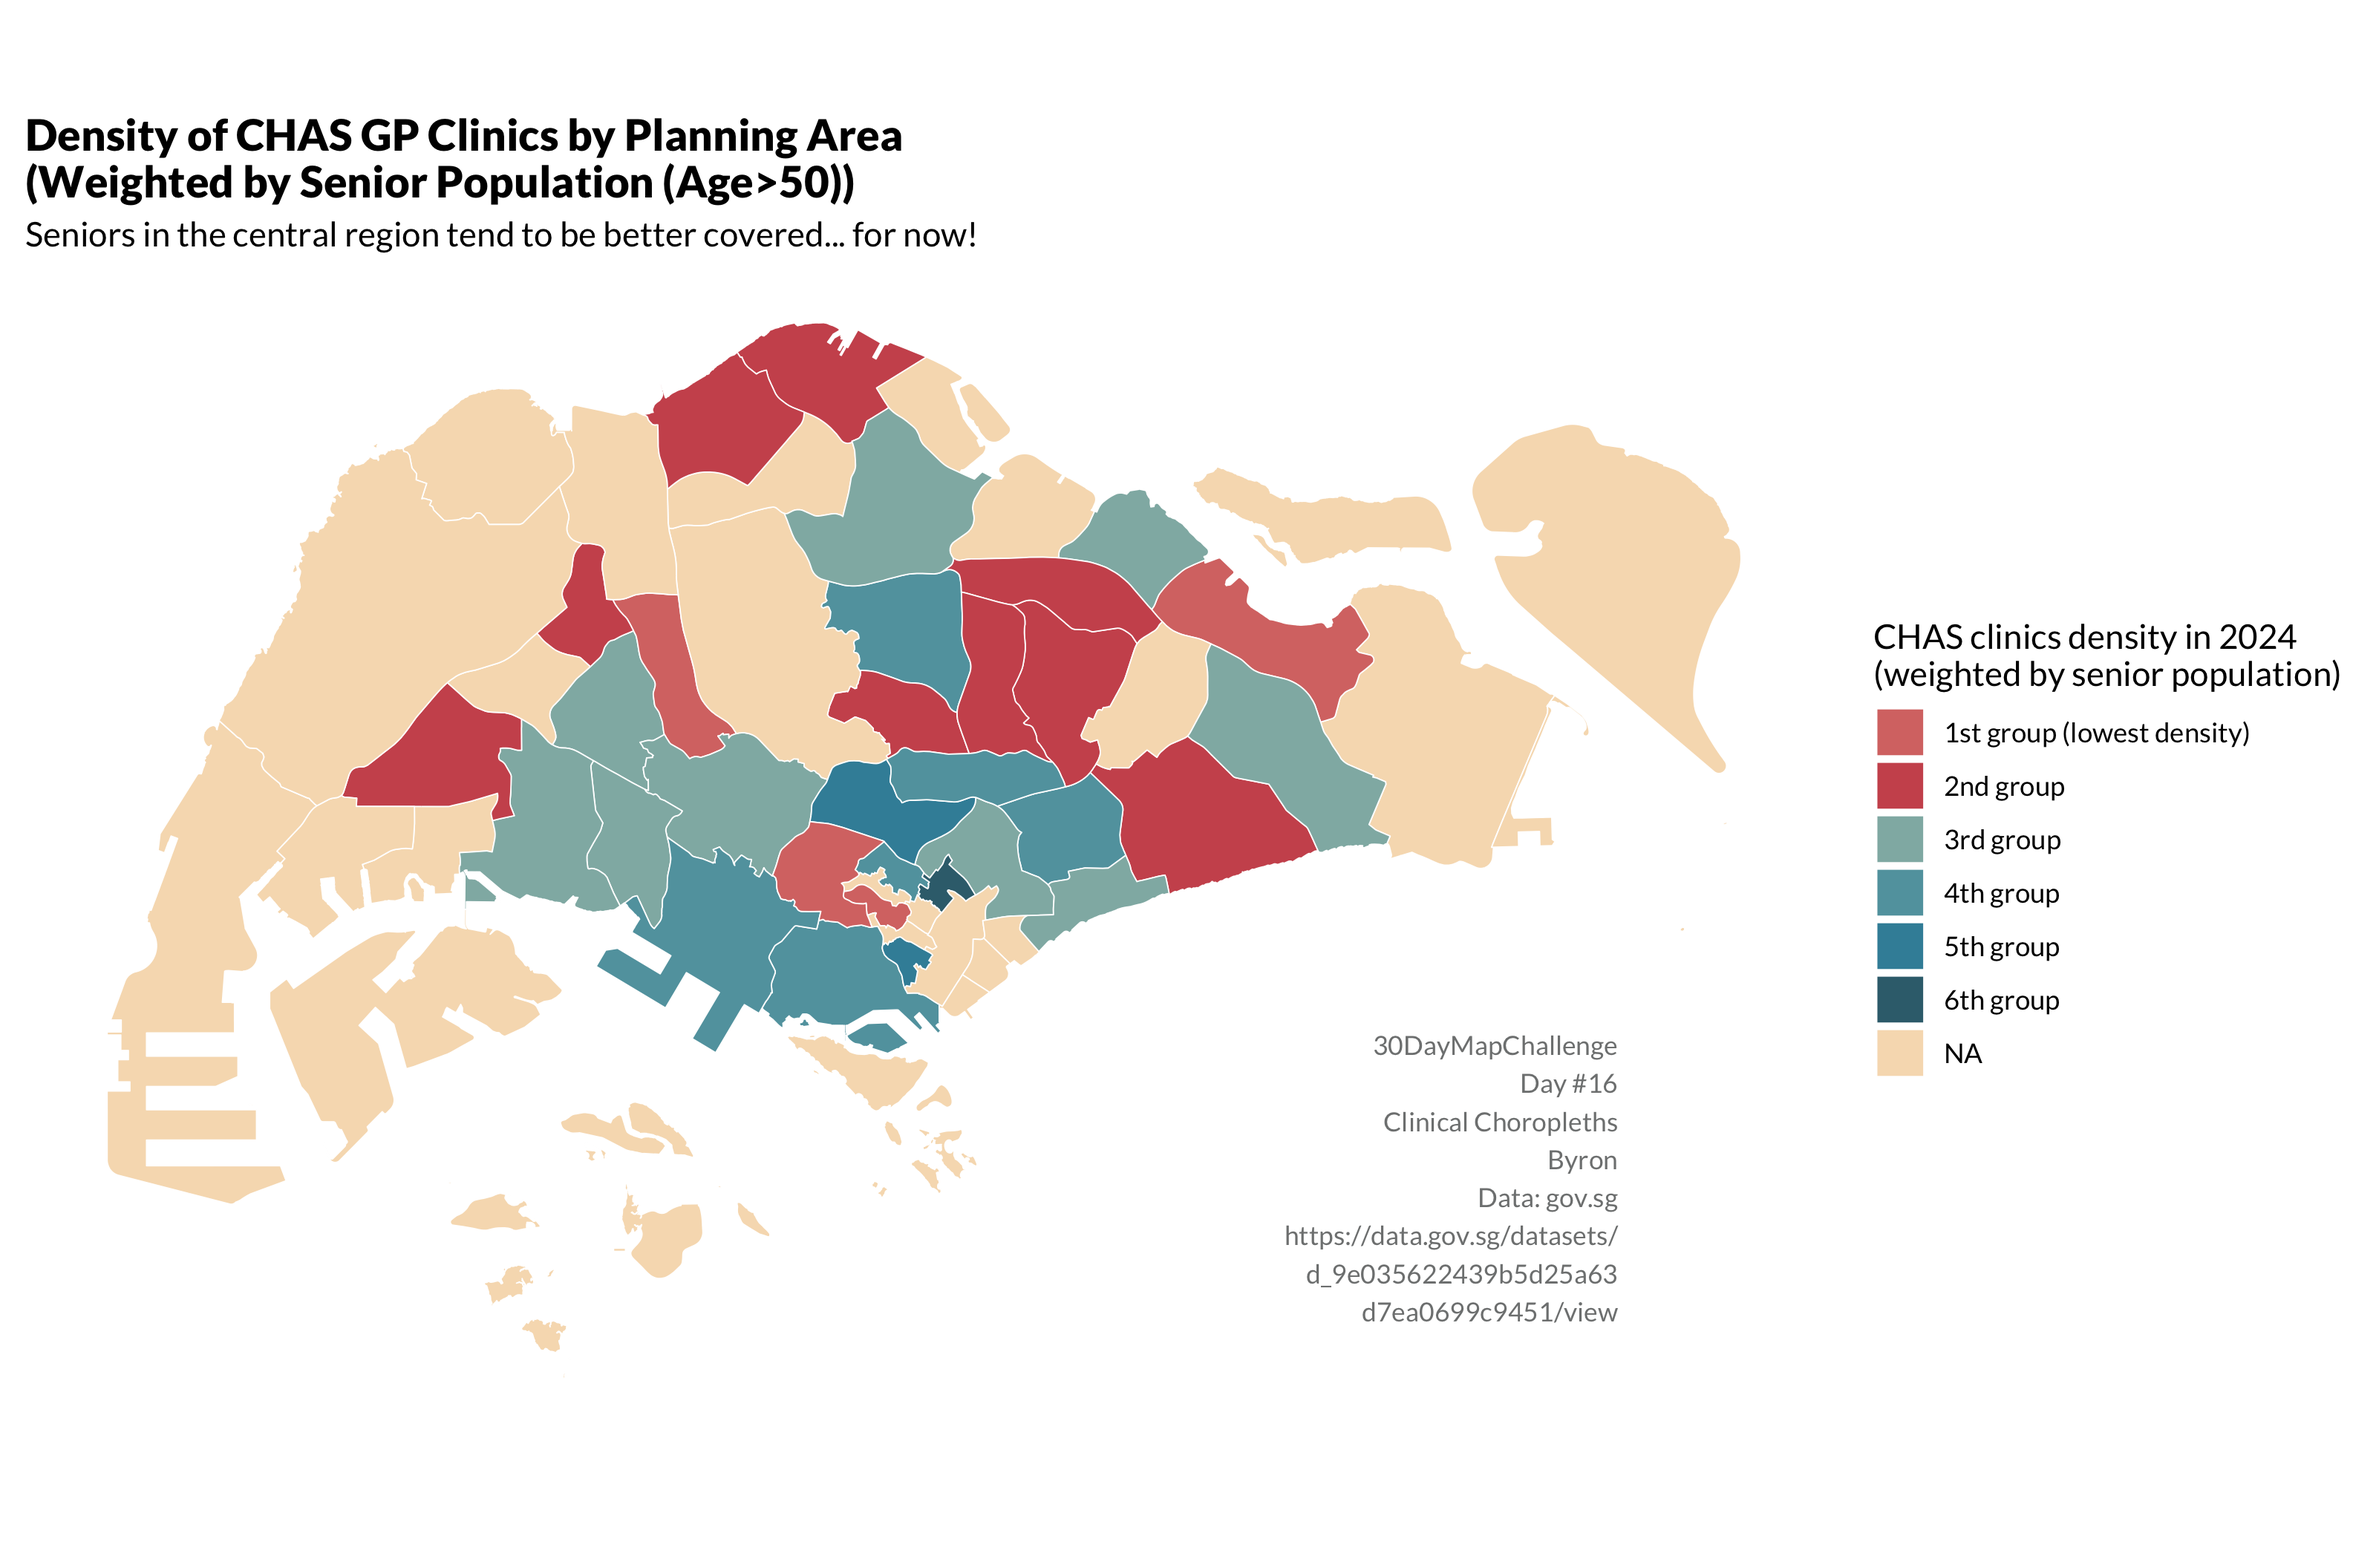
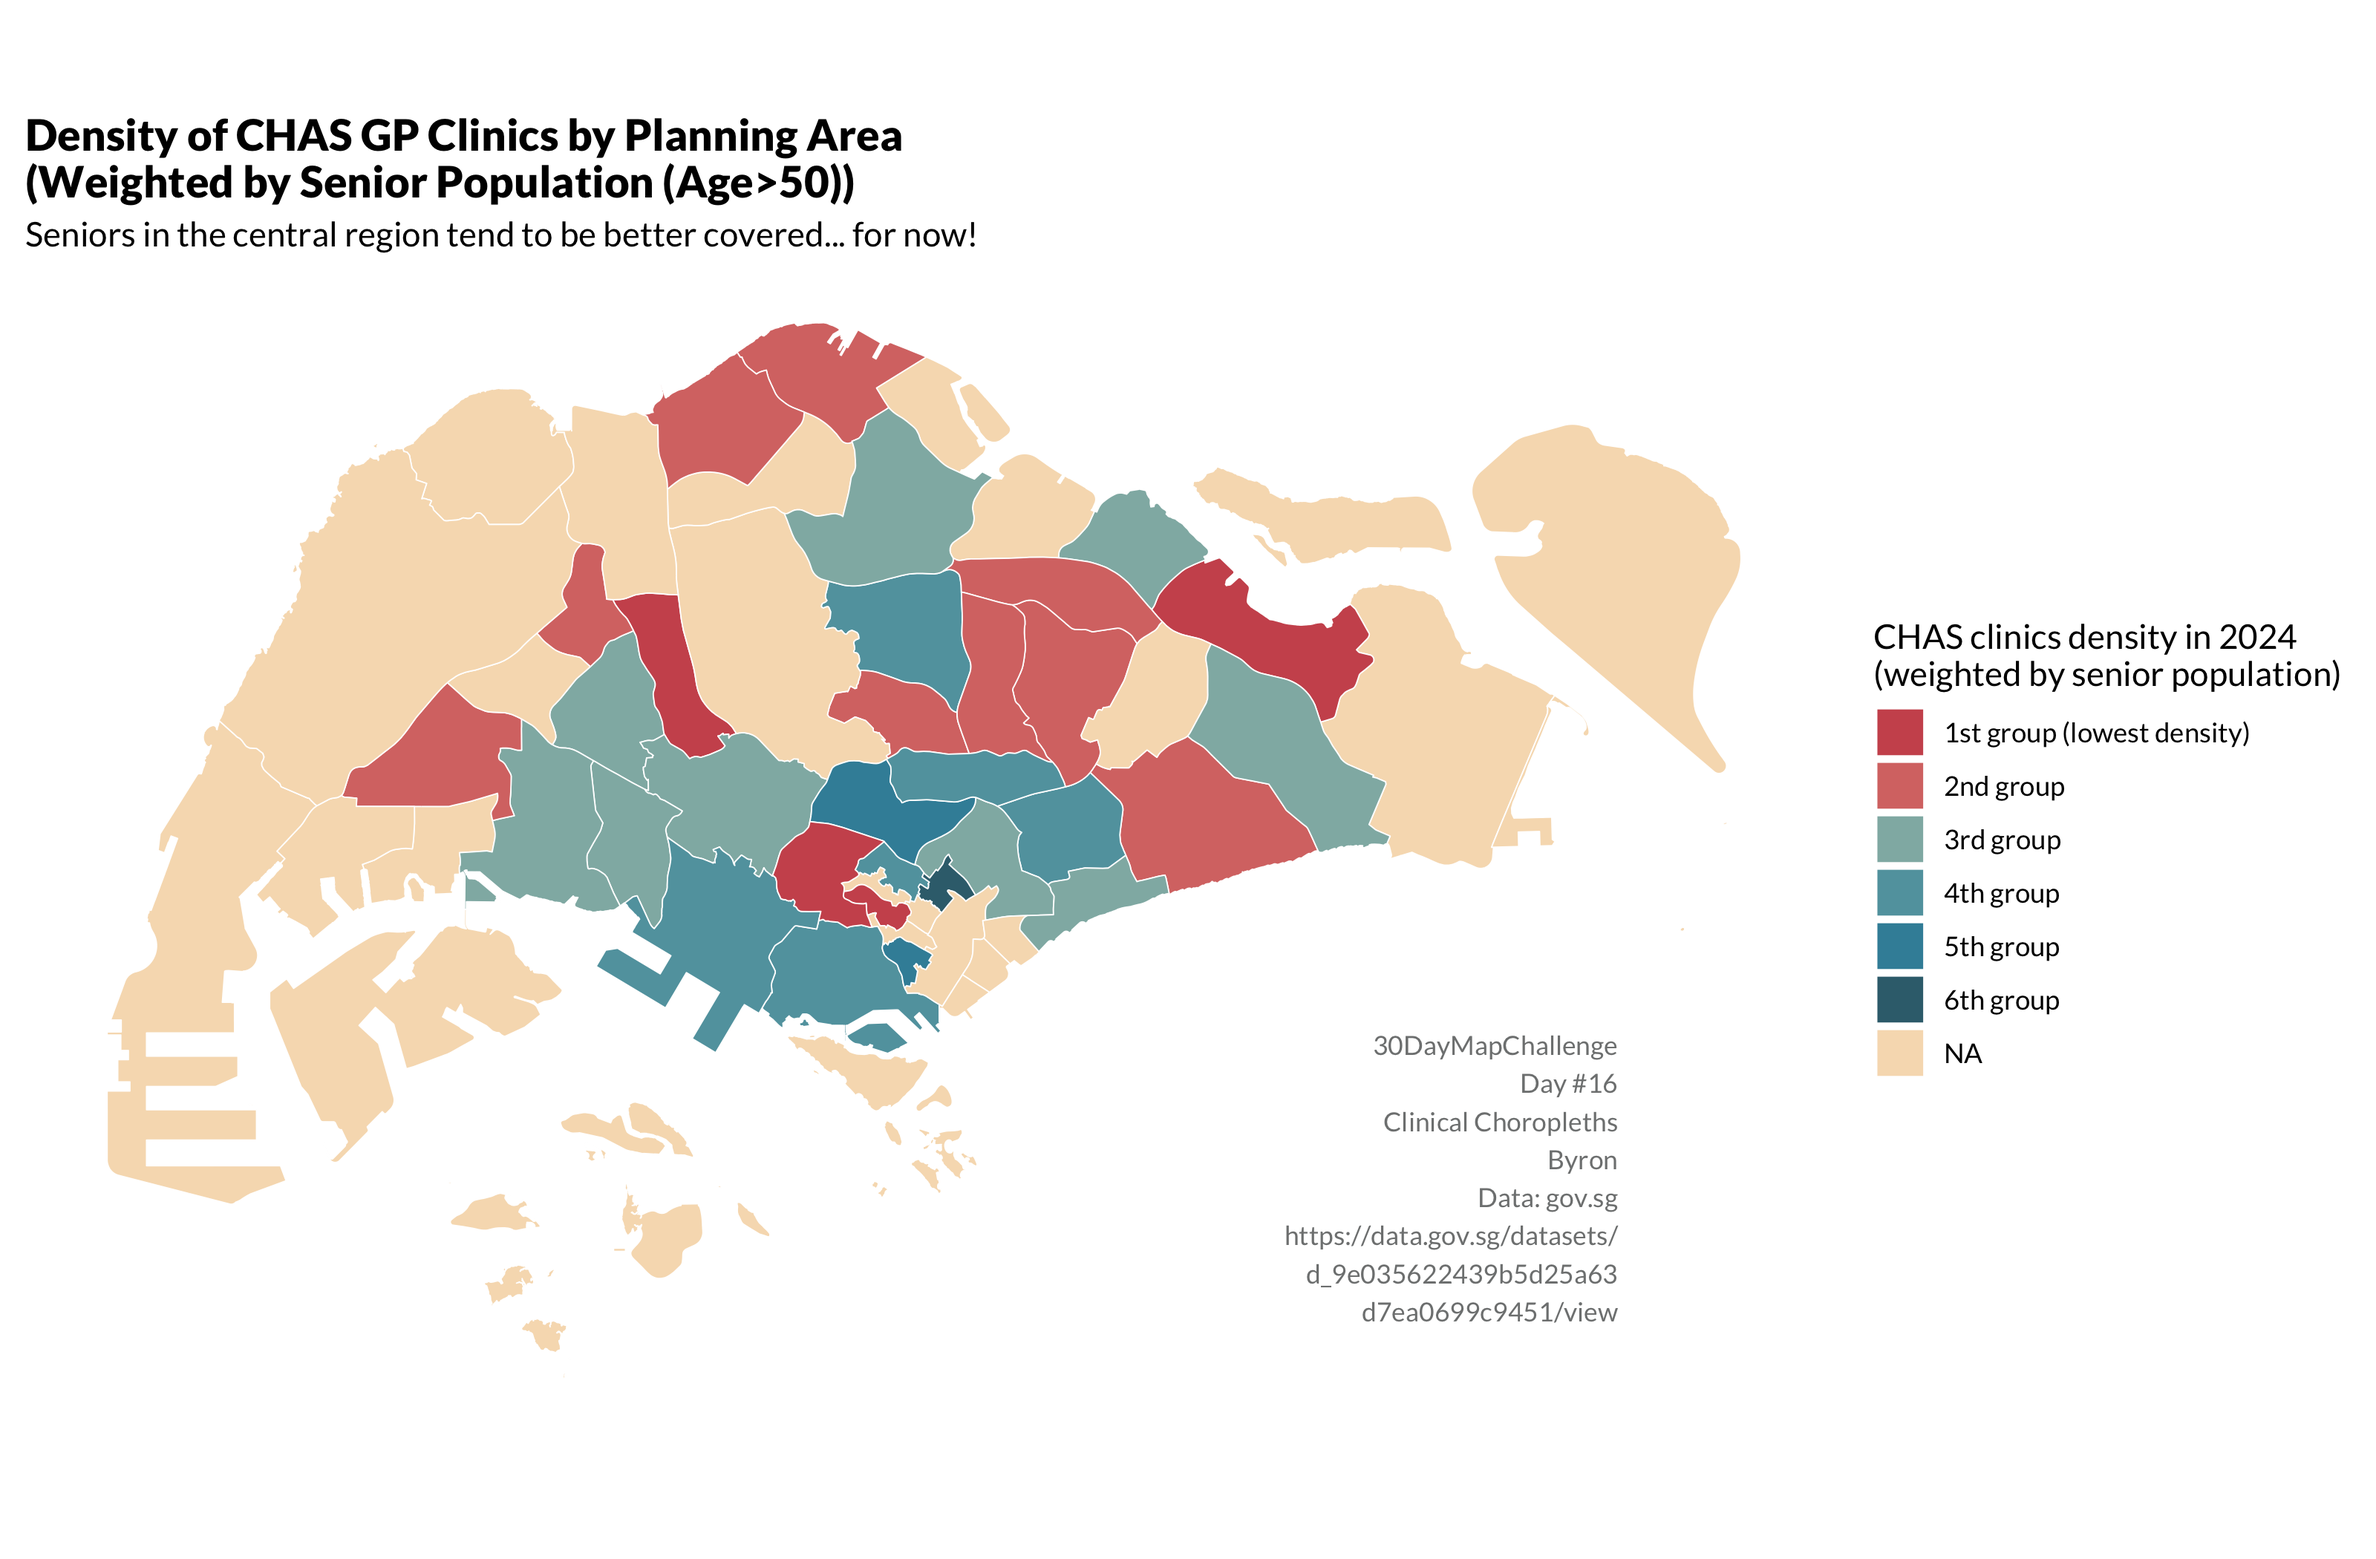
edits to color scheme day 16

diff --git a/_maps_2024/28-byron.md b/_maps_2024/28-byron.md
@@ -8,6 +8,6 @@ source: https://github.com/bairunnn/mapchallenge/blob/main/28-byron.Rmd
 
 This map shows the extent of the 17 reservoirs in Singapore. But why isn't water coloured blue in this map?
 
-At our current trajectory of development, the human race is on the brink of an ecological crisis, with our consumption of Earth's resources - water included - exceeding their natural replacement rates. Indeed, Singapore is one of the world's most water-stressed countries. And I fear that it will in our generation where once again, the taps run dry.
+At our current trajectory of development, the human race is on the brink of an ecological crisis, with our consumption of Earth's resources - water included - exceeding their natural replacement rates. Indeed, Singapore is one of the world's most water-stressed countries. And I fear that it will be in our generation where once again, the taps run dry.
 
 ![Screenshot of map](assets/thumbnails/2024/28-Byron-Blue.png)
